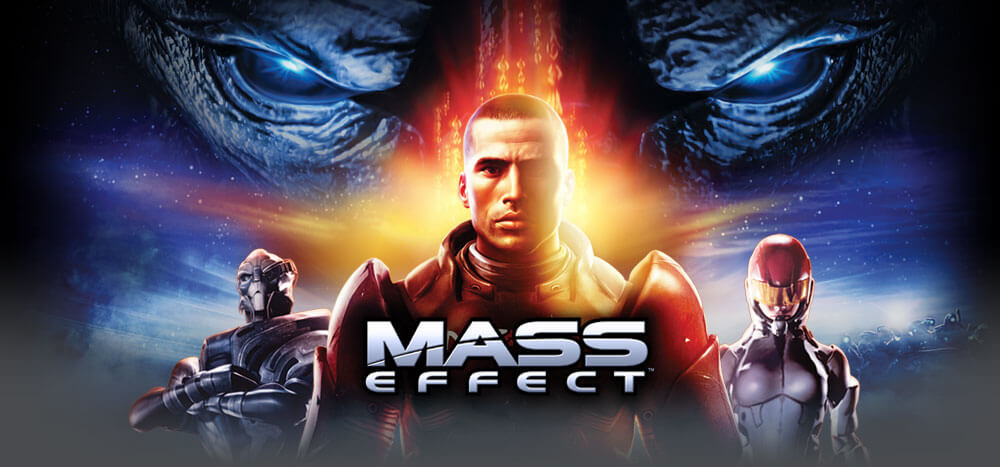
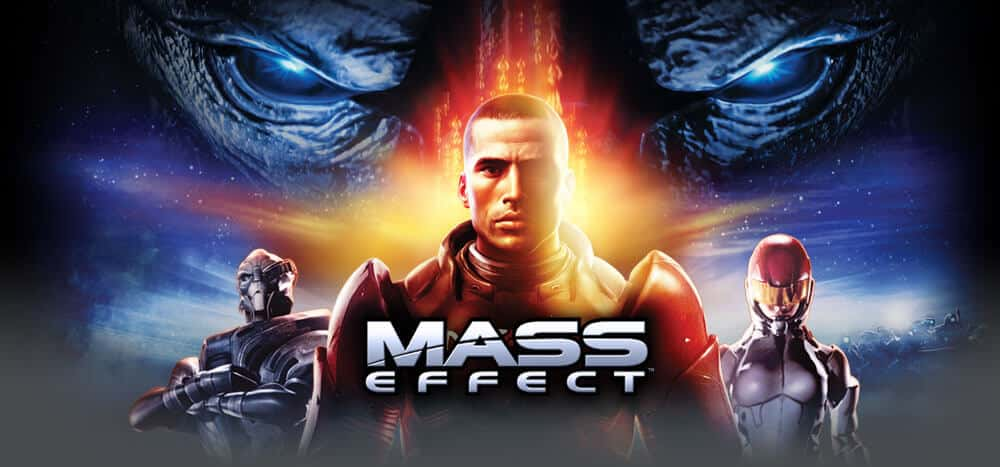
Updates

diff --git a/static/styles/main.86c156c74eabfc3d1324.css b/static/styles/main.86c156c74eabfc3d1324.css
@@ -1,6 +1,6 @@
 @font-face{font-family:Blender;font-style:normal;font-weight:400;src:url(/gameguides-react/static/fonts/2e8418291f661fd81f6f.woff2) format("woff2")}@font-face{font-family:LYAJKA;font-style:normal;font-weight:400;src:url(/gameguides-react/static/fonts/4b5fd400e07daaf77a9b.ttf) format("truetype")}@font-face{font-family:Disket;font-style:normal;font-weight:400;src:url(/gameguides-react/static/fonts/7377dd2a75631272ed00.ttf) format("truetype")}body{background:linear-gradient(135deg,#23272a,#0c0f12);background-color:#060c14;background-size:10px 10px;color:#d5d5d5;font-family:Blender,Arial,sans-serif;margin:0 auto;max-width:1600px;min-width:320px;width:100%}*,:after,:before{box-sizing:border-box}main{display:block}h1,h2,h3,h4,h5,h6,li,ol,p,ul{font-size:inherit;font-weight:inherit;margin:0;padding:0}ol,ul{list-style:none}button{background:transparent;border:none;cursor:pointer;font-family:inherit;font-size:inherit;line-height:inherit}
 [data-theme=light]{--button-color:#60d5ed;--button-accent:#000;--button-tag:#000;--background:#f9f002;--text:#000;--accent:#000;--nav-color:#f9f002;--card-text:#fff;--text-hover:#60d5ed}[data-theme=dark]{--button-color:#ff003c;--button-accent:#60d5ed;--button-tag:#60d5ed;--background:#000;--text:#fff;--accent:#369ab1;--nav-color:#369ab1;--card-text:#000;--text-hover:#000}@media(prefers-color-scheme:light){[data-theme=auto]{--button-color:#60d5ed;--button-accent:#000;--button-tag:#000;--background:#f9f002;--text:#000;--accent:#000;--nav-color:#f9f002;--card-text:#fff;--text-hover:#60d5ed}}@media(prefers-color-scheme:dark){[data-theme=auto]{--button-color:#ff003c;--button-accent:#60d5ed;--button-tag:#60d5ed;--background:#000;--text:#fff;--accent:#369ab1;--nav-color:#369ab1;--card-text:#000;--text-hover:#000}}main{background:var(--background);color:var(--text);max-width:inherit;padding:130px 2rem;position:relative;width:100%}main:after,main:before{background:var(--accent);content:"";display:block;left:0;position:absolute;width:100%}main:before{clip-path:polygon(24.8% 0,26.5% 15px,34% 15px,35.5% 0,70% 0);height:90px;top:39px;z-index:10}main:after{height:40px;top:0}.index-module__container__CgWVL{align-items:center;display:flex;flex-wrap:wrap;gap:30px;justify-content:center}@media(width <= 1080px){main{padding-top:40px}main:after,main:before{display:none}}
-[data-theme=light]{--button-color:#60d5ed;--button-accent:#000;--button-tag:#000;--background:#f9f002;--text:#000;--accent:#000;--nav-color:#f9f002;--card-text:#fff;--text-hover:#60d5ed}[data-theme=dark]{--button-color:#ff003c;--button-accent:#60d5ed;--button-tag:#60d5ed;--background:#000;--text:#fff;--accent:#369ab1;--nav-color:#369ab1;--card-text:#000;--text-hover:#000}@media(prefers-color-scheme:light){[data-theme=auto]{--button-color:#60d5ed;--button-accent:#000;--button-tag:#000;--background:#f9f002;--text:#000;--accent:#000;--nav-color:#f9f002;--card-text:#fff;--text-hover:#60d5ed}}@media(prefers-color-scheme:dark){[data-theme=auto]{--button-color:#ff003c;--button-accent:#60d5ed;--button-tag:#60d5ed;--background:#000;--text:#fff;--accent:#369ab1;--nav-color:#369ab1;--card-text:#000;--text-hover:#000}}.Header-module__header__buRw0{background:url(/gameguides-react/static/images/header-theme.png) 50%/cover no-repeat;display:grid;gap:30px;grid-template-columns:1fr auto 1fr;max-width:inherit;padding:2rem;position:relative;width:100%;z-index:1000}.Header-module__header__buRw0:before{background:rgba(0,0,0,.5);content:"";height:100%;left:0;position:absolute;top:0;width:100%;z-index:-1}.Header-module__logo__xMX1p{align-items:center;align-self:center;color:var(--text);display:flex;flex-direction:column;gap:10px;grid-column:2/3;justify-self:center}.Header-module__logoTitle__UdJqb{font-family:LYAJKA,Arial,sans-serif;font-size:6.5vw}.Header-module__logoText__URaPa{font-size:2.5vw;font-weight:600;text-transform:uppercase}.Header-module__color__vnM4c{display:flex;flex-direction:column;gap:10px;grid-column:3/4;justify-self:flex-end}[data-theme=light] .Header-module__header__buRw0{background:url(/gameguides-react/static/images/header.png) 50%/cover no-repeat}[data-theme=light] .Header-module__header__buRw0:before{display:none}@media(prefers-color-scheme:dark){[data-theme=auto] .Header-module__header__buRw0{background:url(/gameguides-react/static/images/header-theme.png) 50%/cover no-repeat}}@media(prefers-color-scheme:light){[data-theme=auto] .Header-module__header__buRw0{background:url(/gameguides-react/static/images/header.png) 50%/cover no-repeat}[data-theme=auto] .Header-module__header__buRw0:before{display:none}}@media(width <= 1080px){.Header-module__header__buRw0{display:flex;flex-wrap:wrap;gap:30px;justify-content:center}.Header-module__logoTitle__UdJqb{font-size:9vw}.Header-module__logoText__URaPa{font-size:3.5vw}.Header-module__color__vnM4c{flex-direction:row}}@media(width <= 680px){.Header-module__header__buRw0{padding:15px 2rem}}@media(width <= 520px){.Header-module__header__buRw0{gap:15px;padding:1rem}.Header-module__logo__xMX1p{gap:5px}.Header-module__logoTitle__UdJqb{font-size:9vw}}
+[data-theme=light]{--button-color:#60d5ed;--button-accent:#000;--button-tag:#000;--background:#f9f002;--text:#000;--accent:#000;--nav-color:#f9f002;--card-text:#fff;--text-hover:#60d5ed}[data-theme=dark]{--button-color:#ff003c;--button-accent:#60d5ed;--button-tag:#60d5ed;--background:#000;--text:#fff;--accent:#369ab1;--nav-color:#369ab1;--card-text:#000;--text-hover:#000}@media(prefers-color-scheme:light){[data-theme=auto]{--button-color:#60d5ed;--button-accent:#000;--button-tag:#000;--background:#f9f002;--text:#000;--accent:#000;--nav-color:#f9f002;--card-text:#fff;--text-hover:#60d5ed}}@media(prefers-color-scheme:dark){[data-theme=auto]{--button-color:#ff003c;--button-accent:#60d5ed;--button-tag:#60d5ed;--background:#000;--text:#fff;--accent:#369ab1;--nav-color:#369ab1;--card-text:#000;--text-hover:#000}}.Header-module__header__buRw0{background:url(/gameguides-react/static/images/header-theme.jpg) 50%/cover no-repeat;display:grid;gap:30px;grid-template-columns:1fr auto 1fr;max-width:inherit;padding:2rem;position:relative;width:100%;z-index:1000}.Header-module__header__buRw0:before{background:rgba(0,0,0,.5);content:"";height:100%;left:0;position:absolute;top:0;width:100%;z-index:-1}.Header-module__logo__xMX1p{align-items:center;align-self:center;color:var(--text);display:flex;flex-direction:column;gap:10px;grid-column:2/3;justify-self:center}.Header-module__logoTitle__UdJqb{font-family:LYAJKA,Arial,sans-serif;font-size:6.5vw}.Header-module__logoText__URaPa{font-size:2.5vw;font-weight:600;text-transform:uppercase}.Header-module__color__vnM4c{display:flex;flex-direction:column;gap:10px;grid-column:3/4;justify-self:flex-end}[data-theme=light] .Header-module__header__buRw0{background:url(/gameguides-react/static/images/header.jpg) 50%/cover no-repeat}[data-theme=light] .Header-module__header__buRw0:before{display:none}@media(prefers-color-scheme:dark){[data-theme=auto] .Header-module__header__buRw0{background:url(/gameguides-react/static/images/header-theme.jpg) 50%/cover no-repeat}}@media(prefers-color-scheme:light){[data-theme=auto] .Header-module__header__buRw0{background:url(/gameguides-react/static/images/header.jpg) 50%/cover no-repeat}[data-theme=auto] .Header-module__header__buRw0:before{display:none}}@media(width <= 1080px){.Header-module__header__buRw0{display:flex;flex-wrap:wrap;gap:30px;justify-content:center}.Header-module__logoTitle__UdJqb{font-size:9vw}.Header-module__logoText__URaPa{font-size:3.5vw}.Header-module__color__vnM4c{flex-direction:row}}@media(width <= 680px){.Header-module__header__buRw0{padding:15px 2rem}}@media(width <= 520px){.Header-module__header__buRw0{gap:15px;padding:1rem}.Header-module__logo__xMX1p{gap:5px}.Header-module__logoTitle__UdJqb{font-size:9vw}}
 [data-theme=light]{--button-color:#60d5ed;--button-accent:#000;--button-tag:#000;--background:#f9f002;--text:#000;--accent:#000;--nav-color:#f9f002;--card-text:#fff;--text-hover:#60d5ed}[data-theme=dark]{--button-color:#ff003c;--button-accent:#60d5ed;--button-tag:#60d5ed;--background:#000;--text:#fff;--accent:#369ab1;--nav-color:#369ab1;--card-text:#000;--text-hover:#000}@media(prefers-color-scheme:light){[data-theme=auto]{--button-color:#60d5ed;--button-accent:#000;--button-tag:#000;--background:#f9f002;--text:#000;--accent:#000;--nav-color:#f9f002;--card-text:#fff;--text-hover:#60d5ed}}@media(prefers-color-scheme:dark){[data-theme=auto]{--button-color:#ff003c;--button-accent:#60d5ed;--button-tag:#60d5ed;--background:#000;--text:#fff;--accent:#369ab1;--nav-color:#369ab1;--card-text:#000;--text-hover:#000}}@keyframes GlitchButton-module__glitch__ohKKA{0%{clip-path:polygon(0 2%,100% 2%,100% 95%,95% 95%,95% 90%,85% 90%,85% 95%,8% 95%,0 70%)}2%,8%{clip-path:polygon(0 78%,100% 78%,100% 100%,95% 100%,95% 90%,85% 90%,85% 100%,8% 100%,0 78%);transform:translate(-5%)}6%{clip-path:polygon(0 78%,100% 78%,100% 100%,95% 100%,95% 90%,85% 90%,85% 100%,8% 100%,0 78%);transform:translate(5%)}9%{clip-path:polygon(0 78%,100% 78%,100% 100%,95% 100%,95% 90%,85% 90%,85% 100%,8% 100%,0 78%);transform:translate(0)}10%{clip-path:polygon(0 44%,100% 44%,100% 54%,95% 54%,95% 54%,85% 54%,85% 54%,8% 54%,0 54%);transform:translate(5%)}13%{clip-path:polygon(0 44%,100% 44%,100% 54%,95% 54%,95% 54%,85% 54%,85% 54%,8% 54%,0 54%);transform:translate(0)}14%,21%{clip-path:polygon(0 0,100% 0,100% 0,95% 0,95% 0,85% 0,85% 0,8% 0,0 0);transform:translate(5%)}25%{clip-path:polygon(0 0,100% 0,100% 0,95% 0,95% 0,85% 0,85% 0,8% 0,0 0);transform:translate(5%)}31%,61%,to{clip-path:polygon(0 0,100% 0,100% 0,95% 0,95% 0,85% 0,85% 0,8% 0,0 0)}}@keyframes GlitchButton-module__buttonhover__pIN96{0%{transform:skew(0deg)}5%{transform:skew(10deg)}10%{transform:skew(0deg)}to{transform:skew(0deg)}}.GlitchButton-module__menuButton__I556N{border:0;color:#000;font-family:Disket,Arial,sans-serif;font-size:24px;font-weight:700;height:75px;line-height:55px;position:relative;text-transform:uppercase;width:250px;z-index:1}.GlitchButton-module__menuButton__I556N:hover .GlitchButton-module__glitch__ohKKA{display:block}.GlitchButton-module__menuButton__I556N:active{bottom:4px;left:4px;right:4px;top:4px}.GlitchButton-module__menuButton__I556N:after,.GlitchButton-module__menuButton__I556N:before{bottom:0;clip-path:polygon(0 0,100% 0,100% 100%,95% 100%,95% 90%,85% 90%,85% 100%,8% 100%,0 70%);content:"";left:0;position:absolute;right:0;top:0;z-index:-1}.GlitchButton-module__menuButton__I556N:before{background:var(--button-accent);transform:translate(4px)}.GlitchButton-module__menuButton__I556N:after{background:var(--button-color)}.GlitchButton-module__tag__lsvgu{bottom:-5%;color:var(--button-tag);font-size:7px;letter-spacing:1px;line-height:1;padding:2px 1px;position:absolute;right:5%}.GlitchButton-module__glitch__ohKKA{animation:GlitchButton-module__glitch__ohKKA 2s infinite;background:var(--button-tag);bottom:-4px;display:none;left:-4px;right:-4px;text-shadow:2px 2px var(--button-color),-2px -2px 60,90%,60%;top:-4px}.GlitchButton-module__glitch__ohKKA,.GlitchButton-module__glitch__ohKKA:before{clip-path:polygon(0 0,100% 0,100% 100%,95% 100%,95% 90%,85% 90%,85% 100%,8% 100%,0 70%);position:absolute}.GlitchButton-module__glitch__ohKKA:before{background:var(--button-color);bottom:4px;content:"";left:4px;right:4px;top:4px;z-index:-1}@media(width <= 1080px){.GlitchButton-module__menuButton__I556N{width:200px}.GlitchButton-module__tag__lsvgu{font-size:5px;padding:4px 1px}}@media(width <= 680px){.GlitchButton-module__menuButton__I556N{font-size:20px;height:55px;width:150px}.GlitchButton-module__tag__lsvgu{display:none}}@media(width <= 520px){.GlitchButton-module__menuButton__I556N{align-items:center;display:flex;font-size:14px;height:40px;justify-content:center;width:90px}}
 [data-theme=light]{--button-color:#60d5ed;--button-accent:#000;--button-tag:#000;--background:#f9f002;--text:#000;--accent:#000;--nav-color:#f9f002;--card-text:#fff;--text-hover:#60d5ed}[data-theme=dark]{--button-color:#ff003c;--button-accent:#60d5ed;--button-tag:#60d5ed;--background:#000;--text:#fff;--accent:#369ab1;--nav-color:#369ab1;--card-text:#000;--text-hover:#000}@media(prefers-color-scheme:light){[data-theme=auto]{--button-color:#60d5ed;--button-accent:#000;--button-tag:#000;--background:#f9f002;--text:#000;--accent:#000;--nav-color:#f9f002;--card-text:#fff;--text-hover:#60d5ed}}@media(prefers-color-scheme:dark){[data-theme=auto]{--button-color:#ff003c;--button-accent:#60d5ed;--button-tag:#60d5ed;--background:#000;--text:#fff;--accent:#369ab1;--nav-color:#369ab1;--card-text:#000;--text-hover:#000}}.Navigation-module__navigation__Q6yoS{background:var(--nav-color);border:2px solid #000;border-left:0;border-right:0;font-size:20px;min-height:60px;min-width:inherit;position:sticky;top:0;width:100%;z-index:1000}@media(width <= 680px){.Navigation-module__navigation__Q6yoS{min-height:50px}}@media(width <= 520px){.Navigation-module__navigation__Q6yoS{min-height:44px}}
 [data-theme=light]{--button-color:#60d5ed;--button-accent:#000;--button-tag:#000;--background:#f9f002;--text:#000;--accent:#000;--nav-color:#f9f002;--card-text:#fff;--text-hover:#60d5ed}[data-theme=dark]{--button-color:#ff003c;--button-accent:#60d5ed;--button-tag:#60d5ed;--background:#000;--text:#fff;--accent:#369ab1;--nav-color:#369ab1;--card-text:#000;--text-hover:#000}@media(prefers-color-scheme:light){[data-theme=auto]{--button-color:#60d5ed;--button-accent:#000;--button-tag:#000;--background:#f9f002;--text:#000;--accent:#000;--nav-color:#f9f002;--card-text:#fff;--text-hover:#60d5ed}}@media(prefers-color-scheme:dark){[data-theme=auto]{--button-color:#ff003c;--button-accent:#60d5ed;--button-tag:#60d5ed;--background:#000;--text:#fff;--accent:#369ab1;--nav-color:#369ab1;--card-text:#000;--text-hover:#000}}.NavButton-module__navButton__kRjZo{border-left:1px solid #000;border-right:1px solid #000;color:#000;font-weight:600;min-height:inherit;min-width:150px;text-transform:uppercase}.NavButton-module__navButton__kRjZo:active{border-left:4px solid #000;border-right:4px solid #000}@media(width <= 680px){.NavButton-module__navButton__kRjZo{font-size:18px;min-width:130px}}@media(width <= 520px){.NavButton-module__navButton__kRjZo{font-size:16px;min-width:110px}}

diff --git a/index.html b/index.html
@@ -1,1 +1,1 @@
-<!doctype html><html lang="ru"><head><meta charset="UTF-8"><meta http-equiv="X-UA-Compatible" content="IE=edge"><meta name="viewport" content="width=device-width,initial-scale=1"><meta name="color-scheme" content="light dark"><meta name="description" content="CyberTavern — здесь собраны гайды по играм, гудвайбсы и архив катсцен по Genshin Impact!"><meta name="keywords" content="гайды, гудвайбсы, goodvibes, игры, games, видеоигры, videogames, геншин, genshin impact, гайды по играм, советы для игр"><meta name="robots" content="index, follow"><title>CyberTavern</title><link rel="icon" href="/gameguides-react/favicon.ico"><script defer="defer" src="/gameguides-react/static/scripts/main.df9736391383fdc7a836.js"></script><link href="/gameguides-react/static/styles/main.64a81a742648d800021d.css" rel="stylesheet"></head><body><div id="root"></div></body></html>
+<!doctype html><html lang="ru"><head><meta charset="UTF-8"><meta http-equiv="X-UA-Compatible" content="IE=edge"><meta name="viewport" content="width=device-width,initial-scale=1"><meta name="color-scheme" content="light dark"><meta name="description" content="CyberTavern — здесь собраны гайды по играм, гудвайбсы и архив катсцен по Genshin Impact!"><meta name="keywords" content="гайды, гудвайбсы, goodvibes, игры, games, видеоигры, videogames, геншин, genshin impact, гайды по играм, советы для игр"><meta name="robots" content="index, follow"><title>CyberTavern</title><link rel="icon" href="/gameguides-react/favicon.ico"><script defer="defer" src="/gameguides-react/static/scripts/main.df9736391383fdc7a836.js"></script><link href="/gameguides-react/static/styles/main.86c156c74eabfc3d1324.css" rel="stylesheet"></head><body><div id="root"></div></body></html>
